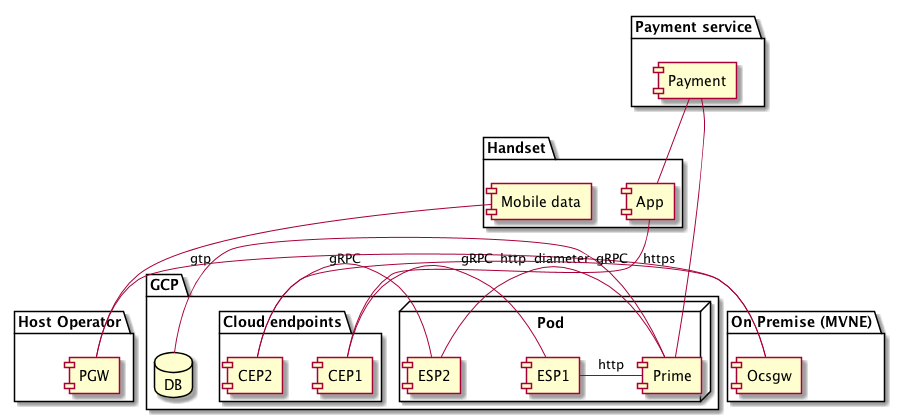
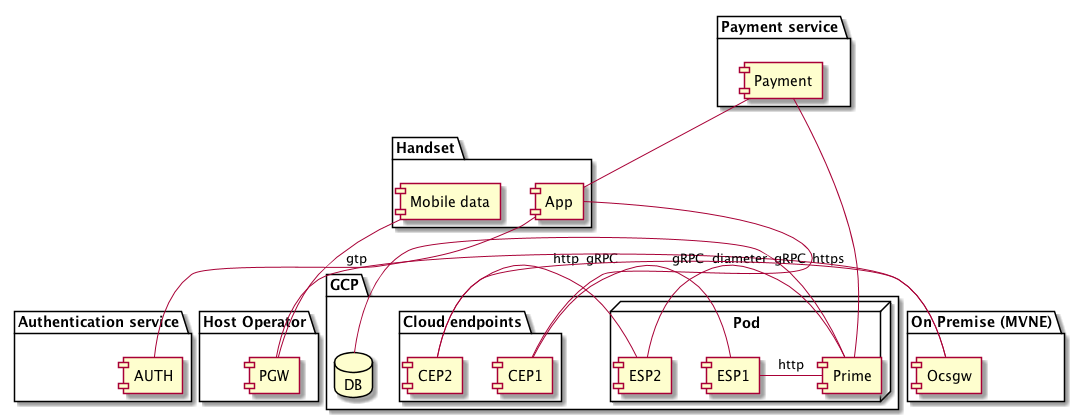
Features/documentation update (#110)
* Renaming non-README files to README files, to make it easier to read docs in github

* Adding authentication provider to the deployment setup

* Forgot to add these after renaming

* Scaffolding, for making svg diagrams

* Svg in MD, just trying int out

* Fixing path

* Update description of signup flow

Changed region(s): [[0.0, 0.3095, 0.9901, 0.9905], [0.6497, 0.031, 0.8663, 0.2786], [0.7425, 0.2786, 0.7735, 0.3405]]

diff --git a/client-api/API.md b/client-api/API.md
@@ -245,11 +245,26 @@ When the service is down for maintenance or similar.
 
 ### Sign up and authentication
 
-The first time the users starts the client, a _sign up_ procedure should be done. As part of the sign up, the
-user registers the following information:
+![Signin flow sequence diagram](diagrams/signin-flow.svg)
 
- - Name
- - Email address (previously registered as part of the subscription activation)
+The client will intiate the login by contacting the [Auth0](http://auth0.com) service that helps us interface with
+identity providers.  What's returned by auth0 is a combination of an ID token and an access token. 
+The ID token can contain many types of information, including email, address etc.   The access token
+is simply used to authenticate the user.    We use only the access token from Auth0 and ignore the ID token.
+
+The authentication token a [JSON web token](https://jwt.io/introduction/), that is used as 
+a [http bearer token](https://developer.mozilla.org/en-US/docs/Web/HTTP/Authentication) when authenticating the
+client towards the Prime component.
+
+The client then asks for a user profile.  The request is sent to a cloud endpoint, that will use the AWT token to 
+authenticate the user.  The web endpoint terminates the https connection and sends it on, with a header
+that indicates that it has been authenticted, to the Prime component.  The authentication process will include
+a conversation between the cloud endpoint and the identity provider.  That conversation is not described
+in this document.
+
+The user profile is then displayed.  If it is empty, as it will be the first time,  then the client will ask for information to be filled in and
+uploaded.  Populating the user profile is part of the _sign up_ procedure.   During sign up the user will be asked about
+name and email address.  The email address will be previously registred as part of the subscription activation. - Email address (previously registered as part of the subscription activation)
 
 An email with a verification code is then sent to the registered email address. The verification code is then
 entered into the client and the sign up procedure has been completed.
